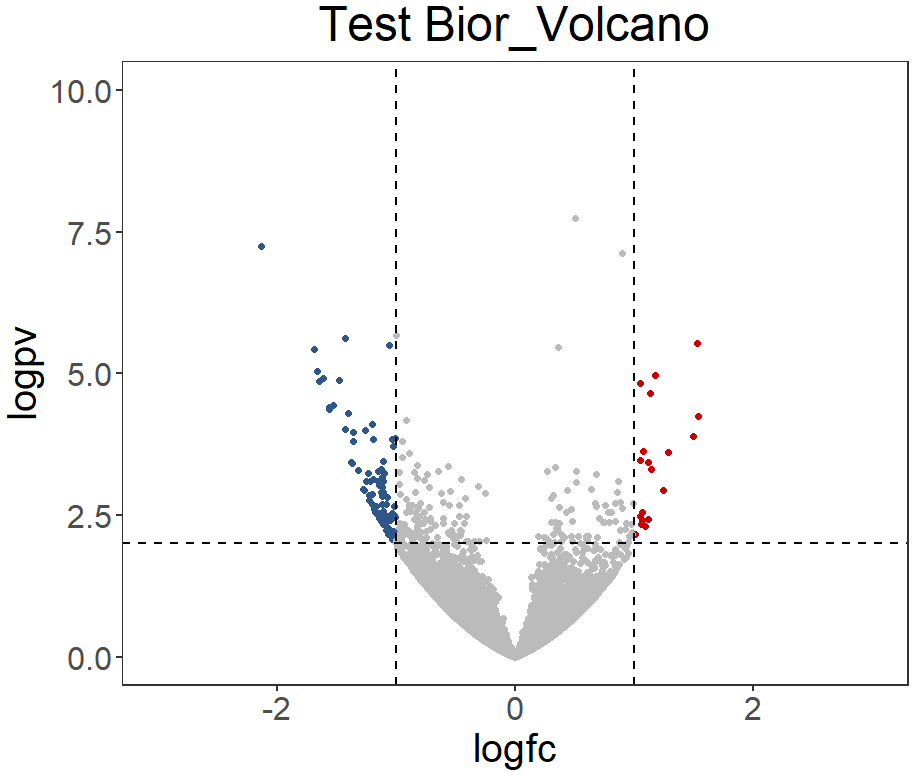
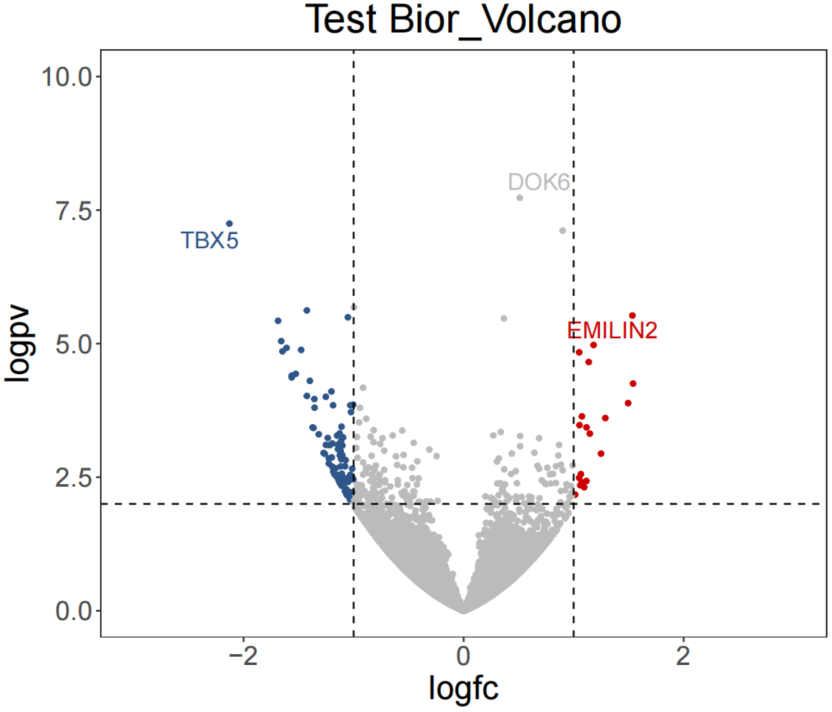
add

diff --git a/docs/basic-plot.html b/docs/basic-plot.html
@@ -30,7 +30,7 @@ The HTML output format for this example is bookdown::gitbook,</p>" />
 <meta name="author" content="Zheng Hu" />
 
 
-<meta name="date" content="2022-03-16" />
+<meta name="date" content="2022-03-18" />
 
   <meta name="viewport" content="width=device-width, initial-scale=1" />
   <meta name="apple-mobile-web-app-capable" content="yes" />
@@ -207,19 +207,22 @@ nodePadding=10, margin=NULL, height=600, width=600, sinksRight=TRUE)<br />
 * sinksRight: boolean. If TRUE, the last nodes are moved to the right border of the plot<br />
 <strong>Examples</strong><br />
 </p>
-<div class="sourceCode" id="cb1"><pre class="sourceCode r"><code class="sourceCode r"><span id="cb1-1"><a href="basic-plot.html#cb1-1" aria-hidden="true" tabindex="-1"></a><span class="co"># links data, colnames must have &#39;source&#39; &#39;target&#39; &#39;value&#39;</span></span>
-<span id="cb1-2"><a href="basic-plot.html#cb1-2" aria-hidden="true" tabindex="-1"></a>links <span class="ot">&lt;-</span> <span class="fu">data.frame</span>(</span>
-<span id="cb1-3"><a href="basic-plot.html#cb1-3" aria-hidden="true" tabindex="-1"></a>  <span class="at">source=</span><span class="fu">c</span>(<span class="st">&quot;C&quot;</span>,<span class="st">&quot;A&quot;</span>, <span class="st">&quot;B&quot;</span>, <span class="st">&quot;E&quot;</span>, <span class="st">&quot;D&quot;</span>), </span>
-<span id="cb1-4"><a href="basic-plot.html#cb1-4" aria-hidden="true" tabindex="-1"></a>  <span class="at">target=</span><span class="fu">c</span>(<span class="st">&quot;b&quot;</span>,<span class="st">&quot;c&quot;</span>, <span class="st">&quot;a&quot;</span>, <span class="st">&quot;e&quot;</span>, <span class="st">&quot;d&quot;</span>), </span>
-<span id="cb1-5"><a href="basic-plot.html#cb1-5" aria-hidden="true" tabindex="-1"></a>  <span class="at">value=</span><span class="fu">c</span>(<span class="dv">1</span>, <span class="dv">2</span>, <span class="dv">0</span>, <span class="dv">4</span>, <span class="dv">5</span>)</span>
-<span id="cb1-6"><a href="basic-plot.html#cb1-6" aria-hidden="true" tabindex="-1"></a>)</span>
-<span id="cb1-7"><a href="basic-plot.html#cb1-7" aria-hidden="true" tabindex="-1"></a><span class="co"># Set Nodes order and colour</span></span>
-<span id="cb1-8"><a href="basic-plot.html#cb1-8" aria-hidden="true" tabindex="-1"></a>Nodes.order <span class="ot">&lt;-</span> <span class="fu">c</span>(<span class="st">&quot;A&quot;</span>, <span class="st">&quot;B&quot;</span>, <span class="st">&quot;C&quot;</span>, <span class="st">&quot;D&quot;</span>, <span class="st">&quot;E&quot;</span>, <span class="st">&quot;a&quot;</span>, <span class="st">&quot;b&quot;</span>, <span class="st">&quot;c&quot;</span>, <span class="st">&quot;d&quot;</span>, <span class="st">&quot;e&quot;</span>)</span>
-<span id="cb1-9"><a href="basic-plot.html#cb1-9" aria-hidden="true" tabindex="-1"></a>Nodes.colour <span class="ot">&lt;-</span> <span class="fu">pal_d3</span>(<span class="st">&quot;category20&quot;</span>, <span class="at">alpha =</span> <span class="fl">0.7</span>)(<span class="dv">20</span>)</span>
-<span id="cb1-10"><a href="basic-plot.html#cb1-10" aria-hidden="true" tabindex="-1"></a>p <span class="ot">&lt;-</span> <span class="fu">Bior_Sankey</span>(links, <span class="at">Nodes.order=</span>Nodes.order, <span class="at">Nodes.colour=</span>Nodes.colour, <span class="at">fontSize=</span><span class="dv">20</span>)</span>
-<span id="cb1-11"><a href="basic-plot.html#cb1-11" aria-hidden="true" tabindex="-1"></a>p</span>
-<span id="cb1-12"><a href="basic-plot.html#cb1-12" aria-hidden="true" tabindex="-1"></a><span class="co"># Use saveNetwork() to save the plot as html</span></span>
-<span id="cb1-13"><a href="basic-plot.html#cb1-13" aria-hidden="true" tabindex="-1"></a><span class="fu">saveNetwork</span>(p,<span class="st">&quot;sankey.html&quot;</span>)</span></code></pre></div>
+<div class="sourceCode" id="cb4"><pre class="sourceCode r"><code class="sourceCode r"><span id="cb4-1"><a href="basic-plot.html#cb4-1" aria-hidden="true" tabindex="-1"></a><span class="co"># first you should install and library networkD3 packages</span></span>
+<span id="cb4-2"><a href="basic-plot.html#cb4-2" aria-hidden="true" tabindex="-1"></a><span class="fu">install.packages</span>(<span class="st">&quot;networkD3&quot;</span>) </span>
+<span id="cb4-3"><a href="basic-plot.html#cb4-3" aria-hidden="true" tabindex="-1"></a><span class="fu">library</span>(networkD3)</span>
+<span id="cb4-4"><a href="basic-plot.html#cb4-4" aria-hidden="true" tabindex="-1"></a><span class="co"># links data, colnames must have &#39;source&#39; &#39;target&#39; &#39;value&#39;</span></span>
+<span id="cb4-5"><a href="basic-plot.html#cb4-5" aria-hidden="true" tabindex="-1"></a>links <span class="ot">&lt;-</span> <span class="fu">data.frame</span>(</span>
+<span id="cb4-6"><a href="basic-plot.html#cb4-6" aria-hidden="true" tabindex="-1"></a>  <span class="at">source=</span><span class="fu">c</span>(<span class="st">&quot;C&quot;</span>,<span class="st">&quot;A&quot;</span>, <span class="st">&quot;B&quot;</span>, <span class="st">&quot;E&quot;</span>, <span class="st">&quot;D&quot;</span>), </span>
+<span id="cb4-7"><a href="basic-plot.html#cb4-7" aria-hidden="true" tabindex="-1"></a>  <span class="at">target=</span><span class="fu">c</span>(<span class="st">&quot;b&quot;</span>,<span class="st">&quot;c&quot;</span>, <span class="st">&quot;a&quot;</span>, <span class="st">&quot;e&quot;</span>, <span class="st">&quot;d&quot;</span>), </span>
+<span id="cb4-8"><a href="basic-plot.html#cb4-8" aria-hidden="true" tabindex="-1"></a>  <span class="at">value=</span><span class="fu">c</span>(<span class="dv">1</span>, <span class="dv">2</span>, <span class="dv">0</span>, <span class="dv">4</span>, <span class="dv">5</span>)</span>
+<span id="cb4-9"><a href="basic-plot.html#cb4-9" aria-hidden="true" tabindex="-1"></a>)</span>
+<span id="cb4-10"><a href="basic-plot.html#cb4-10" aria-hidden="true" tabindex="-1"></a><span class="co"># Set Nodes order and colour</span></span>
+<span id="cb4-11"><a href="basic-plot.html#cb4-11" aria-hidden="true" tabindex="-1"></a>Nodes.order <span class="ot">&lt;-</span> <span class="fu">c</span>(<span class="st">&quot;A&quot;</span>, <span class="st">&quot;B&quot;</span>, <span class="st">&quot;C&quot;</span>, <span class="st">&quot;D&quot;</span>, <span class="st">&quot;E&quot;</span>, <span class="st">&quot;a&quot;</span>, <span class="st">&quot;b&quot;</span>, <span class="st">&quot;c&quot;</span>, <span class="st">&quot;d&quot;</span>, <span class="st">&quot;e&quot;</span>)</span>
+<span id="cb4-12"><a href="basic-plot.html#cb4-12" aria-hidden="true" tabindex="-1"></a>Nodes.colour <span class="ot">&lt;-</span> <span class="fu">pal_d3</span>(<span class="st">&quot;category20&quot;</span>, <span class="at">alpha =</span> <span class="fl">0.7</span>)(<span class="dv">20</span>)</span>
+<span id="cb4-13"><a href="basic-plot.html#cb4-13" aria-hidden="true" tabindex="-1"></a>p <span class="ot">&lt;-</span> <span class="fu">Bior_Sankey</span>(links, <span class="at">Nodes.order=</span>Nodes.order, <span class="at">Nodes.colour=</span>Nodes.colour, <span class="at">fontSize=</span><span class="dv">20</span>)</span>
+<span id="cb4-14"><a href="basic-plot.html#cb4-14" aria-hidden="true" tabindex="-1"></a>p</span>
+<span id="cb4-15"><a href="basic-plot.html#cb4-15" aria-hidden="true" tabindex="-1"></a><span class="co"># Use saveNetwork() to save the plot as html</span></span>
+<span id="cb4-16"><a href="basic-plot.html#cb4-16" aria-hidden="true" tabindex="-1"></a><span class="fu">saveNetwork</span>(p,<span class="st">&quot;sankey.html&quot;</span>)</span></code></pre></div>
 <p><img src="images/Bior_Sankey.png" /></p>
 </div>
 <div id="bior_pie" class="section level2 hasAnchor" number="2.2">
@@ -237,11 +240,11 @@ Bior_pie(x, labels, col=pal_d3(“category20,”alpha=0.7)(20), title=““, fo
 * legend.key.size: legend size<br />
 <strong>Examples</strong><br />
 </p>
-<div class="sourceCode" id="cb2"><pre class="sourceCode r"><code class="sourceCode r"><span id="cb2-1"><a href="basic-plot.html#cb2-1" aria-hidden="true" tabindex="-1"></a>x <span class="ot">&lt;-</span> <span class="fu">c</span>(<span class="dv">3</span>,<span class="dv">7</span>,<span class="dv">9</span>,<span class="dv">1</span>,<span class="dv">2</span>)</span>
-<span id="cb2-2"><a href="basic-plot.html#cb2-2" aria-hidden="true" tabindex="-1"></a>labels <span class="ot">&lt;-</span> <span class="fu">c</span>(<span class="st">&quot;A&quot;</span>, <span class="st">&quot;B&quot;</span>, <span class="st">&quot;C&quot;</span>, <span class="st">&quot;D&quot;</span>, <span class="st">&quot;E&quot;</span>)</span>
-<span id="cb2-3"><a href="basic-plot.html#cb2-3" aria-hidden="true" tabindex="-1"></a>col <span class="ot">&lt;-</span> <span class="fu">c</span>(<span class="st">&quot;#AEC7E8B2&quot;</span>, <span class="st">&quot;#FFBB78B2&quot;</span>, <span class="st">&quot;#98DF8AB2&quot;</span>, <span class="st">&quot;#FF9896B2&quot;</span>, <span class="st">&quot;#C5B0D5B2&quot;</span>)</span>
-<span id="cb2-4"><a href="basic-plot.html#cb2-4" aria-hidden="true" tabindex="-1"></a>p <span class="ot">&lt;-</span> <span class="fu">Bior_pie</span>(x, labels, <span class="at">col=</span>col, <span class="at">title=</span><span class="st">&quot;Test Bior_pie&quot;</span>)</span>
-<span id="cb2-5"><a href="basic-plot.html#cb2-5" aria-hidden="true" tabindex="-1"></a>p</span></code></pre></div>
+<div class="sourceCode" id="cb5"><pre class="sourceCode r"><code class="sourceCode r"><span id="cb5-1"><a href="basic-plot.html#cb5-1" aria-hidden="true" tabindex="-1"></a>x <span class="ot">&lt;-</span> <span class="fu">c</span>(<span class="dv">3</span>,<span class="dv">7</span>,<span class="dv">9</span>,<span class="dv">1</span>,<span class="dv">2</span>)</span>
+<span id="cb5-2"><a href="basic-plot.html#cb5-2" aria-hidden="true" tabindex="-1"></a>labels <span class="ot">&lt;-</span> <span class="fu">c</span>(<span class="st">&quot;A&quot;</span>, <span class="st">&quot;B&quot;</span>, <span class="st">&quot;C&quot;</span>, <span class="st">&quot;D&quot;</span>, <span class="st">&quot;E&quot;</span>)</span>
+<span id="cb5-3"><a href="basic-plot.html#cb5-3" aria-hidden="true" tabindex="-1"></a>col <span class="ot">&lt;-</span> <span class="fu">c</span>(<span class="st">&quot;#AEC7E8B2&quot;</span>, <span class="st">&quot;#FFBB78B2&quot;</span>, <span class="st">&quot;#98DF8AB2&quot;</span>, <span class="st">&quot;#FF9896B2&quot;</span>, <span class="st">&quot;#C5B0D5B2&quot;</span>)</span>
+<span id="cb5-4"><a href="basic-plot.html#cb5-4" aria-hidden="true" tabindex="-1"></a>p <span class="ot">&lt;-</span> <span class="fu">Bior_pie</span>(x, labels, <span class="at">col=</span>col, <span class="at">title=</span><span class="st">&quot;Test Bior_pie&quot;</span>)</span>
+<span id="cb5-5"><a href="basic-plot.html#cb5-5" aria-hidden="true" tabindex="-1"></a>p</span></code></pre></div>
 <p><img src="images/Bior_pie.png" /></p>
 
 </div>

diff --git a/docs/scrnaseq-plot.html b/docs/scrnaseq-plot.html
@@ -30,7 +30,7 @@ The HTML output format for this example is bookdown::gitbook,</p>" />
 <meta name="author" content="Zheng Hu" />
 
 
-<meta name="date" content="2022-03-16" />
+<meta name="date" content="2022-03-18" />
 
   <meta name="viewport" content="width=device-width, initial-scale=1" />
   <meta name="apple-mobile-web-app-capable" content="yes" />
@@ -188,10 +188,13 @@ code span.wa { color: #60a0b0; font-weight: bold; font-style: italic; } /* Warni
 <p>Some plots commonly used in scRNAseq analysis.<br />
 The test data used in Examples is <a href="https://satijalab.org/seurat/archive/v3.1/pbmc3k_tutorial.html">Seurat Tutorial Data</a><br />
 </p>
-<div class="sourceCode" id="cb3"><pre class="sourceCode r"><code class="sourceCode r"><span id="cb3-1"><a href="scrnaseq-plot.html#cb3-1" aria-hidden="true" tabindex="-1"></a><span class="co"># load test data</span></span>
-<span id="cb3-2"><a href="scrnaseq-plot.html#cb3-2" aria-hidden="true" tabindex="-1"></a>seuratobject <span class="ot">&lt;-</span> <span class="fu">readRDS</span>(<span class="st">&quot;testdata/pbmc3k_final.rds&quot;</span>)</span>
-<span id="cb3-3"><a href="scrnaseq-plot.html#cb3-3" aria-hidden="true" tabindex="-1"></a><span class="co"># colors</span></span>
-<span id="cb3-4"><a href="scrnaseq-plot.html#cb3-4" aria-hidden="true" tabindex="-1"></a>cols <span class="ot">&lt;-</span> <span class="fu">pal_d3</span>(<span class="st">&quot;category20&quot;</span>)(<span class="dv">20</span>)</span></code></pre></div>
+<div class="sourceCode" id="cb6"><pre class="sourceCode r"><code class="sourceCode r"><span id="cb6-1"><a href="scrnaseq-plot.html#cb6-1" aria-hidden="true" tabindex="-1"></a><span class="co"># first you should install and library Seurat packages</span></span>
+<span id="cb6-2"><a href="scrnaseq-plot.html#cb6-2" aria-hidden="true" tabindex="-1"></a><span class="fu">install.packages</span>(<span class="st">&quot;Seurat&quot;</span>) </span>
+<span id="cb6-3"><a href="scrnaseq-plot.html#cb6-3" aria-hidden="true" tabindex="-1"></a><span class="fu">library</span>(Seurat)</span>
+<span id="cb6-4"><a href="scrnaseq-plot.html#cb6-4" aria-hidden="true" tabindex="-1"></a><span class="co"># load test data</span></span>
+<span id="cb6-5"><a href="scrnaseq-plot.html#cb6-5" aria-hidden="true" tabindex="-1"></a>seuratobject <span class="ot">&lt;-</span> <span class="fu">readRDS</span>(<span class="st">&quot;testdata/pbmc3k_final.rds&quot;</span>)</span>
+<span id="cb6-6"><a href="scrnaseq-plot.html#cb6-6" aria-hidden="true" tabindex="-1"></a><span class="co"># colors</span></span>
+<span id="cb6-7"><a href="scrnaseq-plot.html#cb6-7" aria-hidden="true" tabindex="-1"></a>cols <span class="ot">&lt;-</span> <span class="fu">pal_d3</span>(<span class="st">&quot;category20&quot;</span>)(<span class="dv">20</span>)</span></code></pre></div>
 <div id="bior_dimplot" class="section level2 hasAnchor" number="3.1">
 <h2><span class="header-section-number">3.1</span> Bior_DimPlot<a href="scrnaseq-plot.html#bior_dimplot" class="anchor-section" aria-label="Anchor link to header"></a></h2>
 <p><strong>Description</strong><br />
@@ -206,8 +209,8 @@ Bior_DimPlot(seuratobject, reduction=“umap,” pt.size=1, label = TRUE, label.
 * label.size: Sets size of labels<br />
 * cols: colors<br />
 <strong>Examples</strong></p>
-<div class="sourceCode" id="cb4"><pre class="sourceCode r"><code class="sourceCode r"><span id="cb4-1"><a href="scrnaseq-plot.html#cb4-1" aria-hidden="true" tabindex="-1"></a>p <span class="ot">&lt;-</span> <span class="fu">Bior_DimPlot</span>(seuratobject, <span class="at">cols =</span> cols)</span>
-<span id="cb4-2"><a href="scrnaseq-plot.html#cb4-2" aria-hidden="true" tabindex="-1"></a>p</span></code></pre></div>
+<div class="sourceCode" id="cb7"><pre class="sourceCode r"><code class="sourceCode r"><span id="cb7-1"><a href="scrnaseq-plot.html#cb7-1" aria-hidden="true" tabindex="-1"></a>p <span class="ot">&lt;-</span> <span class="fu">Bior_DimPlot</span>(seuratobject, <span class="at">cols =</span> cols)</span>
+<span id="cb7-2"><a href="scrnaseq-plot.html#cb7-2" aria-hidden="true" tabindex="-1"></a>p</span></code></pre></div>
 <p><img src="images/Bior_DimPlot.png" /></p>
 </div>
 <div id="bior_featurevlnplot" class="section level2 hasAnchor" number="3.2">
@@ -227,9 +230,9 @@ Bior_FeatureVlnplot(seuratobject, genes, title.size=15, axis.text.size=10, pt.si
 * cols: Vlnplot cluster colors<br />
 <strong>Examples</strong><br />
 </p>
-<div class="sourceCode" id="cb5"><pre class="sourceCode r"><code class="sourceCode r"><span id="cb5-1"><a href="scrnaseq-plot.html#cb5-1" aria-hidden="true" tabindex="-1"></a>genes <span class="ot">&lt;-</span> <span class="fu">c</span>(<span class="st">&quot;MS4A1&quot;</span>, <span class="st">&quot;GNLY&quot;</span>, <span class="st">&quot;CD3E&quot;</span>, <span class="st">&quot;CD14&quot;</span>, <span class="st">&quot;FCER1A&quot;</span>, <span class="st">&quot;FCGR3A&quot;</span>)</span>
-<span id="cb5-2"><a href="scrnaseq-plot.html#cb5-2" aria-hidden="true" tabindex="-1"></a>p <span class="ot">&lt;-</span> <span class="fu">Bior_FeatureVlnplot</span>(seuratobject, genes, <span class="at">scale=</span><span class="fl">0.8</span>, <span class="at">pt.size=</span><span class="fl">0.5</span>, <span class="at">nrow=</span><span class="dv">2</span>, <span class="at">cols=</span>cols)</span>
-<span id="cb5-3"><a href="scrnaseq-plot.html#cb5-3" aria-hidden="true" tabindex="-1"></a>p</span></code></pre></div>
+<div class="sourceCode" id="cb8"><pre class="sourceCode r"><code class="sourceCode r"><span id="cb8-1"><a href="scrnaseq-plot.html#cb8-1" aria-hidden="true" tabindex="-1"></a>genes <span class="ot">&lt;-</span> <span class="fu">c</span>(<span class="st">&quot;MS4A1&quot;</span>, <span class="st">&quot;GNLY&quot;</span>, <span class="st">&quot;CD3E&quot;</span>, <span class="st">&quot;CD14&quot;</span>, <span class="st">&quot;FCER1A&quot;</span>, <span class="st">&quot;FCGR3A&quot;</span>)</span>
+<span id="cb8-2"><a href="scrnaseq-plot.html#cb8-2" aria-hidden="true" tabindex="-1"></a>p <span class="ot">&lt;-</span> <span class="fu">Bior_FeatureVlnplot</span>(seuratobject, genes, <span class="at">scale=</span><span class="fl">0.8</span>, <span class="at">pt.size=</span><span class="fl">0.5</span>, <span class="at">nrow=</span><span class="dv">2</span>, <span class="at">cols=</span>cols)</span>
+<span id="cb8-3"><a href="scrnaseq-plot.html#cb8-3" aria-hidden="true" tabindex="-1"></a>p</span></code></pre></div>
 <p><img src="images/Bior_FeatureVlnplot.png" /></p>
 
 </div>

diff --git a/docs/ngs-plot.html b/docs/ngs-plot.html
@@ -30,7 +30,7 @@ The HTML output format for this example is bookdown::gitbook,</p>" />
 <meta name="author" content="Zheng Hu" />
 
 
-<meta name="date" content="2022-03-16" />
+<meta name="date" content="2022-03-18" />
 
   <meta name="viewport" content="width=device-width, initial-scale=1" />
   <meta name="apple-mobile-web-app-capable" content="yes" />
@@ -192,30 +192,36 @@ code span.wa { color: #60a0b0; font-weight: bold; font-style: italic; } /* Warni
 <p><strong>Description</strong><br />
 Volcano plot<br />
 <strong>Usage</strong><br />
-Bior_Volcano(logfc, pvalue, logfc.threshold.up=1, logfc.threshold.Down=-1,
-pvalue.threshold=0.01, point.size=2, point.shape= 20, fontsize=20, title=’‘,
-limits.x=c(-10,10), limits.y=c(0,15), legend.position=“right”)<br />
+Bior_Volcano(gene, logfc, pvalue, label.gene=’‘, label.size=5, logfc.threshold.up=1,
+logfc.threshold.Down=-1, pvalue.threshold=0.01, point.size=2, point.shape= 20,
+fontsize=20, title=’‘, limits.x=c(-10,10), limits.y=c(0,15), legend.position=’right’)<br />
 <strong>Arguments</strong><br />
+* gene: RNAseq gene<br />
 * logfc: RNAseq log2FoldChange<br />
 * pvalue: RNAseq pvalue<br />
+* label.gene: a vector of gene to label<br />
+* label.size: gene label size<br />
 * logfc.threshold.up: log2FoldChange threshold for up genes<br />
 * logfc.threshold.Down: log2FoldChange threshold for down genes<br />
 * pvalue.threshold: pvalue threshold for differential genes<br />
 * point.size: point size<br />
+* point.shape: point shape<br />
 * fontsize: fontsize<br />
 * title: title<br />
 * limits.x: x-axis range<br />
 * limits.y: y-axis range<br />
-* legend.position: legend position, you can choose one in {’left,’‘top,’‘right,’
+* legend.position: legend position, you can choose one in {‘left,’‘top,’‘right,’
 ‘bottom,’‘none’}<br />
 <strong>Examples</strong><br />
 </p>
-<div class="sourceCode" id="cb6"><pre class="sourceCode r"><code class="sourceCode r"><span id="cb6-1"><a href="ngs-plot.html#cb6-1" aria-hidden="true" tabindex="-1"></a>data <span class="ot">&lt;-</span> <span class="fu">read.table</span>(<span class="st">&#39;testdata/Bior_Volcano.txt&#39;</span>, <span class="at">header=</span>T)</span>
-<span id="cb6-2"><a href="ngs-plot.html#cb6-2" aria-hidden="true" tabindex="-1"></a>logfc <span class="ot">&lt;-</span> data<span class="sc">$</span>log2FoldChange</span>
-<span id="cb6-3"><a href="ngs-plot.html#cb6-3" aria-hidden="true" tabindex="-1"></a>pvalue <span class="ot">&lt;-</span> data<span class="sc">$</span>pvalue</span>
-<span id="cb6-4"><a href="ngs-plot.html#cb6-4" aria-hidden="true" tabindex="-1"></a>p <span class="ot">&lt;-</span> <span class="fu">Bior_Volcano</span>(logfc, pvalue, <span class="at">title=</span><span class="st">&quot;Test Bior_Volcano&quot;</span>, <span class="at">legend.position=</span><span class="st">&quot;none&quot;</span>,</span>
-<span id="cb6-5"><a href="ngs-plot.html#cb6-5" aria-hidden="true" tabindex="-1"></a>                  <span class="at">limits.x=</span><span class="fu">c</span>(<span class="sc">-</span><span class="dv">3</span>,<span class="dv">3</span>),<span class="at">limits.y=</span><span class="fu">c</span>(<span class="dv">0</span>,<span class="dv">10</span>))</span>
-<span id="cb6-6"><a href="ngs-plot.html#cb6-6" aria-hidden="true" tabindex="-1"></a>p</span></code></pre></div>
+<div class="sourceCode" id="cb9"><pre class="sourceCode r"><code class="sourceCode r"><span id="cb9-1"><a href="ngs-plot.html#cb9-1" aria-hidden="true" tabindex="-1"></a>data <span class="ot">&lt;-</span> <span class="fu">read.table</span>(<span class="st">&#39;testdata/Bior_Volcano.txt&#39;</span>, <span class="at">header=</span>T)</span>
+<span id="cb9-2"><a href="ngs-plot.html#cb9-2" aria-hidden="true" tabindex="-1"></a>gene <span class="ot">&lt;-</span> data<span class="sc">$</span>Gene</span>
+<span id="cb9-3"><a href="ngs-plot.html#cb9-3" aria-hidden="true" tabindex="-1"></a>logfc <span class="ot">&lt;-</span> data<span class="sc">$</span>log2FoldChange</span>
+<span id="cb9-4"><a href="ngs-plot.html#cb9-4" aria-hidden="true" tabindex="-1"></a>pvalue <span class="ot">&lt;-</span> data<span class="sc">$</span>pvalue</span>
+<span id="cb9-5"><a href="ngs-plot.html#cb9-5" aria-hidden="true" tabindex="-1"></a>label.gene <span class="ot">&lt;-</span> <span class="fu">c</span>(<span class="st">&#39;DOK6&#39;</span>,<span class="st">&#39;TBX5&#39;</span>,<span class="st">&#39;EMILIN2&#39;</span>)</span>
+<span id="cb9-6"><a href="ngs-plot.html#cb9-6" aria-hidden="true" tabindex="-1"></a>p <span class="ot">&lt;-</span> <span class="fu">Bior_Volcano</span>(gene, logfc, pvalue, label.gene, <span class="at">label.size=</span><span class="dv">5</span>, <span class="at">title=</span><span class="st">&quot;Test Bior_Volcano&quot;</span>, </span>
+<span id="cb9-7"><a href="ngs-plot.html#cb9-7" aria-hidden="true" tabindex="-1"></a>                  <span class="at">legend.position=</span><span class="st">&quot;none&quot;</span>, <span class="at">limits.x=</span><span class="fu">c</span>(<span class="sc">-</span><span class="dv">3</span>,<span class="dv">3</span>),<span class="at">limits.y=</span><span class="fu">c</span>(<span class="dv">0</span>,<span class="dv">10</span>))</span>
+<span id="cb9-8"><a href="ngs-plot.html#cb9-8" aria-hidden="true" tabindex="-1"></a>p</span></code></pre></div>
 <p><img src="images/Bior_Volcano.png" /></p>
 
 </div>

diff --git a/docs/index.html b/docs/index.html
@@ -30,7 +30,7 @@ The HTML output format for this example is bookdown::gitbook,</p>" />
 <meta name="author" content="Zheng Hu" />
 
 
-<meta name="date" content="2022-03-16" />
+<meta name="date" content="2022-03-18" />
 
   <meta name="viewport" content="width=device-width, initial-scale=1" />
   <meta name="apple-mobile-web-app-capable" content="yes" />
@@ -186,13 +186,23 @@ code span.wa { color: #60a0b0; font-weight: bold; font-style: italic; } /* Warni
 <div id="header">
 <h1 class="title">Biorplot Documentation</h1>
 <p class="author"><em>Zheng Hu</em></p>
-<p class="date"><em>2022-03-16</em></p>
+<p class="date"><em>2022-03-18</em></p>
 </div>
 <div id="installation-usage" class="section level1 hasAnchor" number="1">
 <h1><span class="header-section-number">Chapter 1</span> Installation &amp; Usage<a href="index.html#installation-usage" class="anchor-section" aria-label="Anchor link to header"></a></h1>
-<p>TODO</p>
+<p>You can download the package from <a href="https://github.com/zhenghu159/Biorplot">Biorplot GitHub Page</a>:<br />
+</p>
+<div class="sourceCode" id="cb1"><pre class="sourceCode r"><code class="sourceCode r"><span id="cb1-1"><a href="index.html#cb1-1" aria-hidden="true" tabindex="-1"></a>git clone https<span class="sc">:</span><span class="er">//</span>github.com<span class="sc">/</span>zhenghu159<span class="sc">/</span>Biorplot.git</span></code></pre></div>
+<p>Then load the package by:<br />
+</p>
+<div class="sourceCode" id="cb2"><pre class="sourceCode r"><code class="sourceCode r"><span id="cb2-1"><a href="index.html#cb2-1" aria-hidden="true" tabindex="-1"></a><span class="fu">source</span>(<span class="st">&#39;Biorplot.R&#39;</span>)</span></code></pre></div>
 <div id="dependence" class="section level2 hasAnchor" number="1.1">
 <h2><span class="header-section-number">1.1</span> Dependence<a href="index.html#dependence" class="anchor-section" aria-label="Anchor link to header"></a></h2>
+<p>You should install these dependence:<br />
+<a href="https://github.com/r-lib/scales">scales</a>, <a href="https://github.com/nanxstats/ggsci">ggsci</a>,
+<a href="https://github.com/jrnold/ggthemes">ggthemes</a>, <a href="https://github.com/tidyverse/ggplot2">ggplot2</a>,
+<a href="https://github.com/wilkelab/cowplot">cowplot</a>, <a href="https://github.com/slowkow/ggrepel">ggrepel</a></p>
+<div class="sourceCode" id="cb3"><pre class="sourceCode r"><code class="sourceCode r"><span id="cb3-1"><a href="index.html#cb3-1" aria-hidden="true" tabindex="-1"></a><span class="fu">install.packages</span>(<span class="fu">c</span>(<span class="st">&quot;scales&quot;</span>,<span class="st">&quot;ggsci&quot;</span>,<span class="st">&quot;ggthemes&quot;</span>,<span class="st">&quot;ggplot2&quot;</span>,<span class="st">&quot;cowplot&quot;</span>,<span class="st">&quot;ggrepel&quot;</span>))</span></code></pre></div>
 </div>
 <div id="example" class="section level2 hasAnchor" number="1.2">
 <h2><span class="header-section-number">1.2</span> example<a href="index.html#example" class="anchor-section" aria-label="Anchor link to header"></a></h2>

diff --git a/docs/404.html b/docs/404.html
@@ -30,7 +30,7 @@ The HTML output format for this example is bookdown::gitbook,</p>" />
 <meta name="author" content="Zheng Hu" />
 
 
-<meta name="date" content="2022-03-16" />
+<meta name="date" content="2022-03-18" />
 
   <meta name="viewport" content="width=device-width, initial-scale=1" />
   <meta name="apple-mobile-web-app-capable" content="yes" />

diff --git a/README.md b/README.md
@@ -1,2 +1,4 @@
 # Biorplot
-Some bioinformatic analysis plots using R
+Some bioinformatic analysis plots using R  
+  
+More details please read the [documentation](https://zhenghu159.github.io/Biorplot/index.html)
